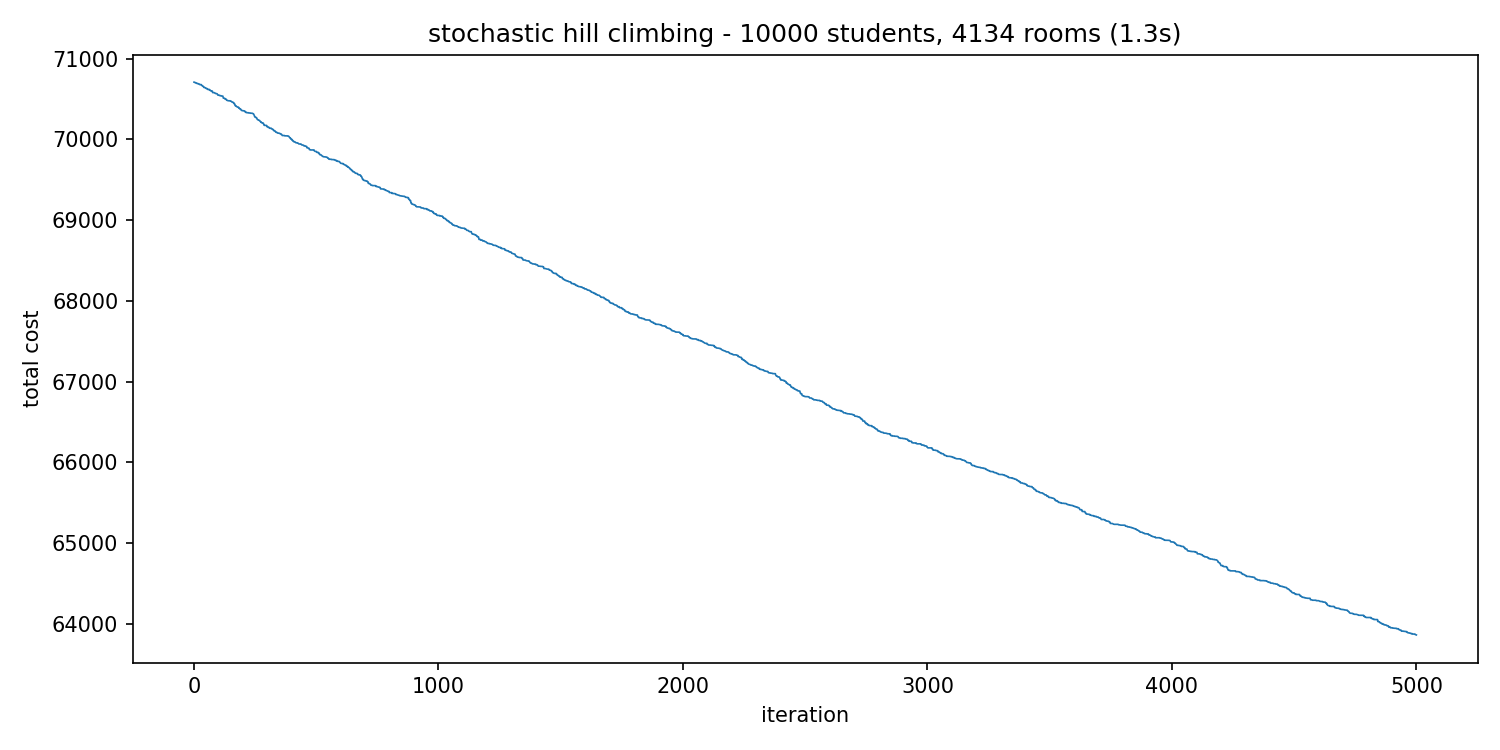
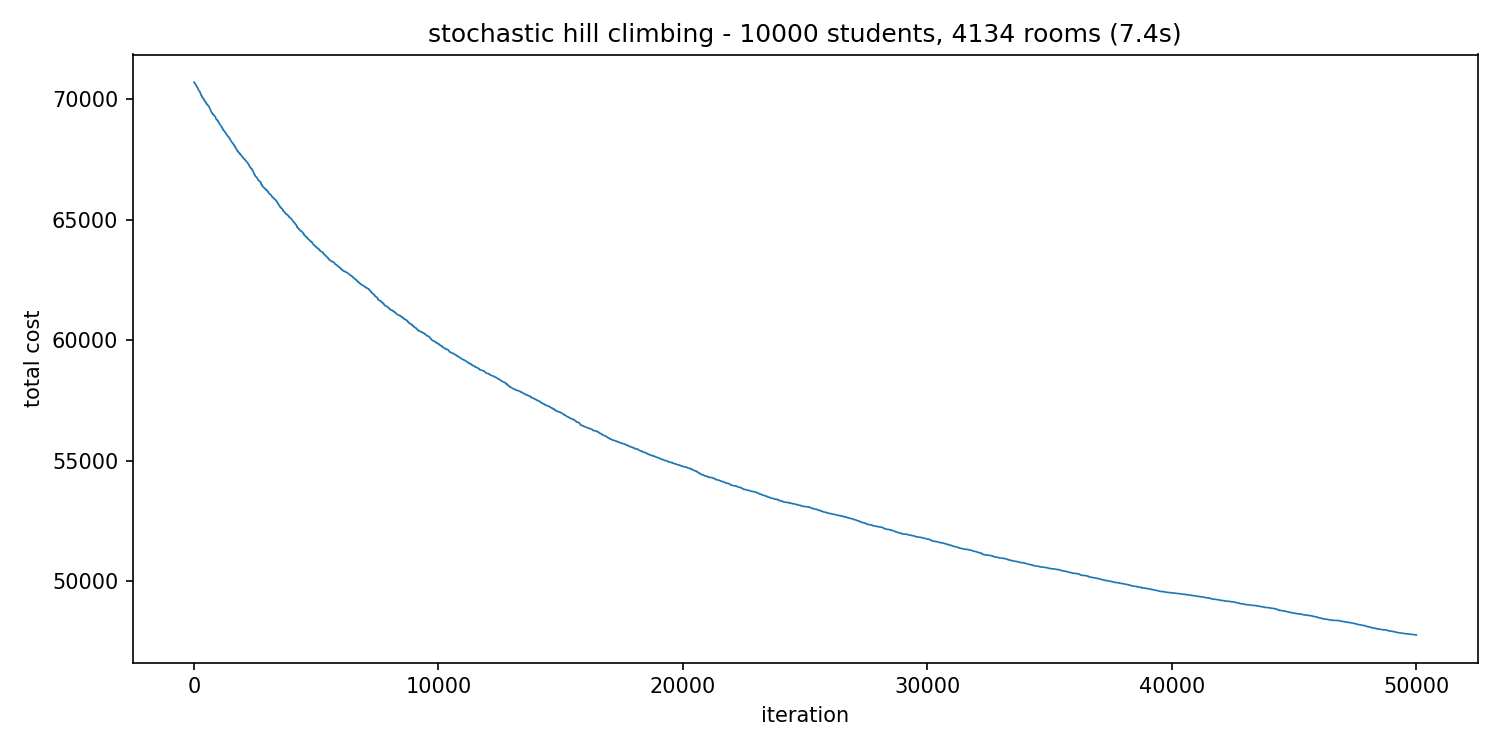
Update 50,000 iterations

diff --git a/StochasticHillClimbing/algo.py b/StochasticHillClimbing/algo.py
@@ -203,7 +203,7 @@ def stochastic_hill_climbing(
     student_features,
     room_features,
     room_capacities,
-    max_iter=5000,
+    max_iter=50000,
 ):
     """
     Stochastic hill climbing:
@@ -328,7 +328,7 @@ if __name__ == "__main__":
         student_features,
         room_features,
         room_capacities,
-        max_iter=5000,
+        max_iter=50000,
     )
 
     starting_cost = history[0]
